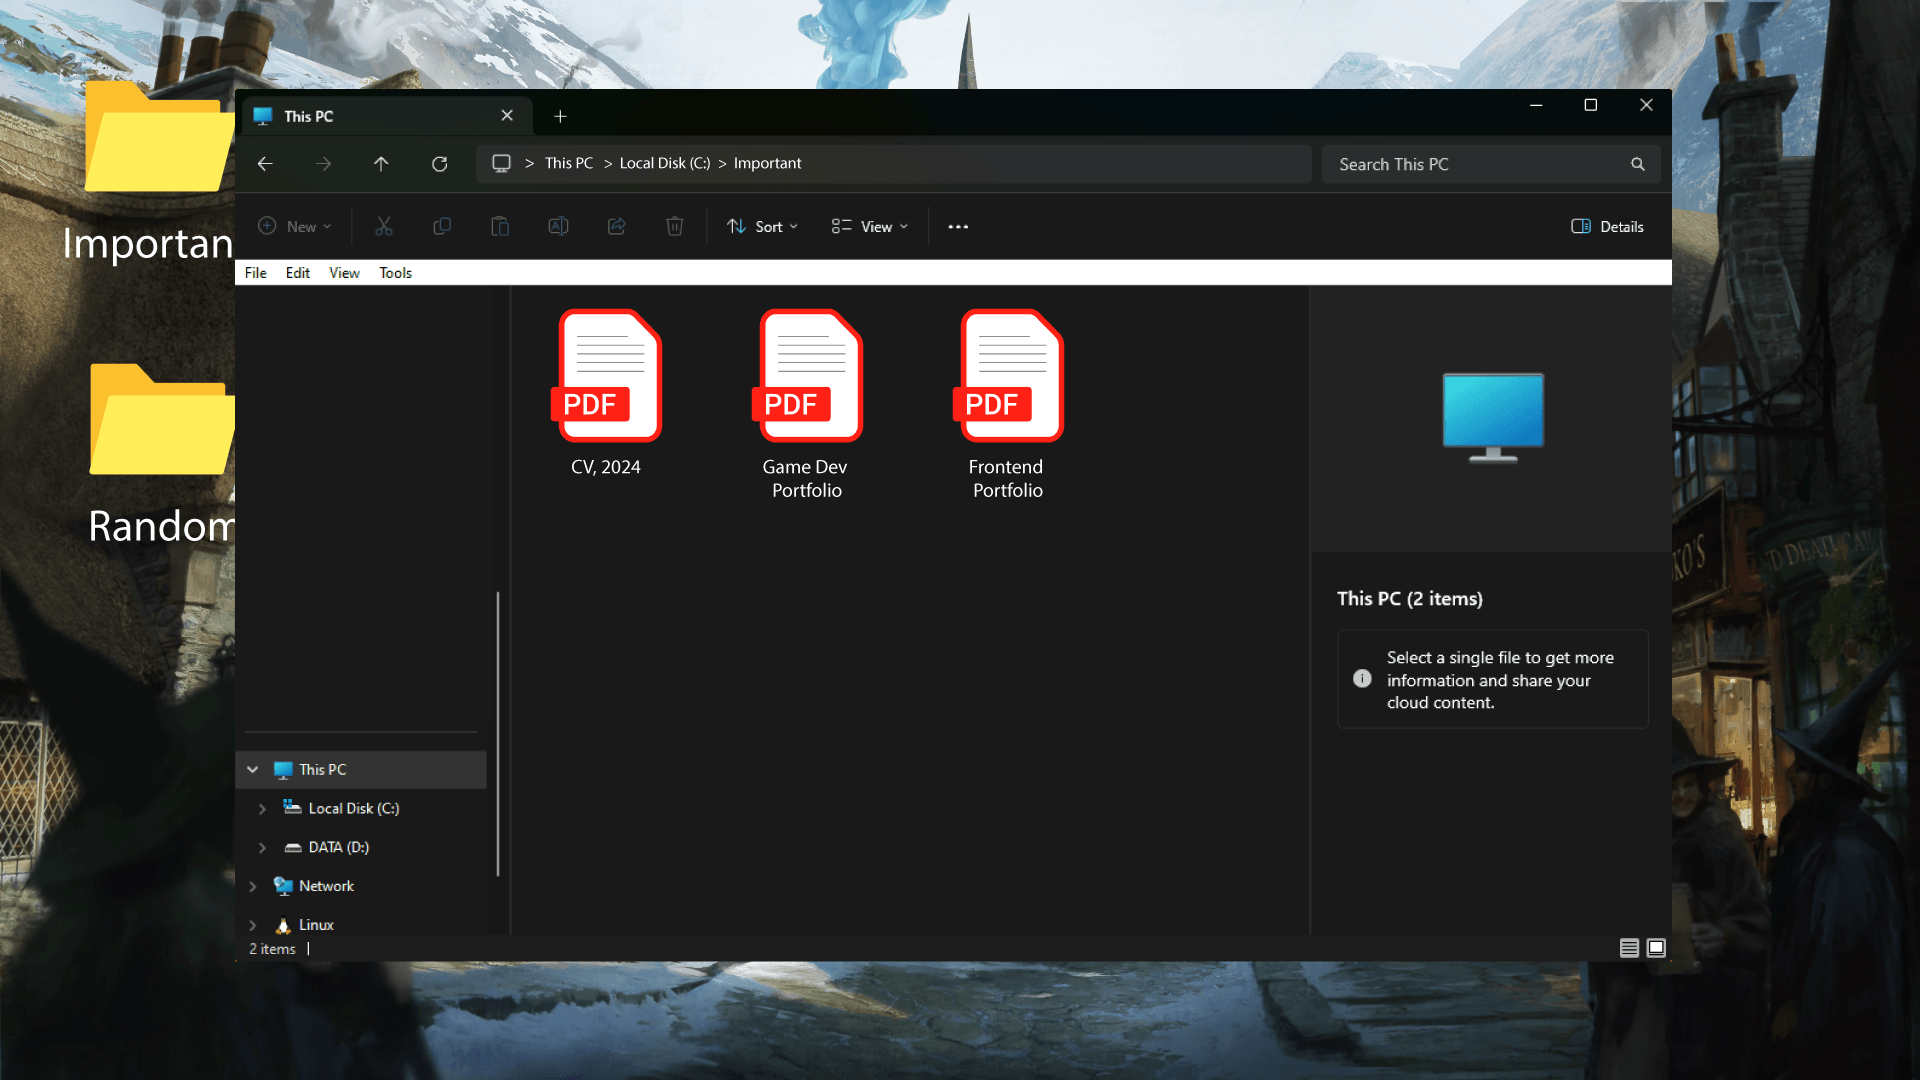
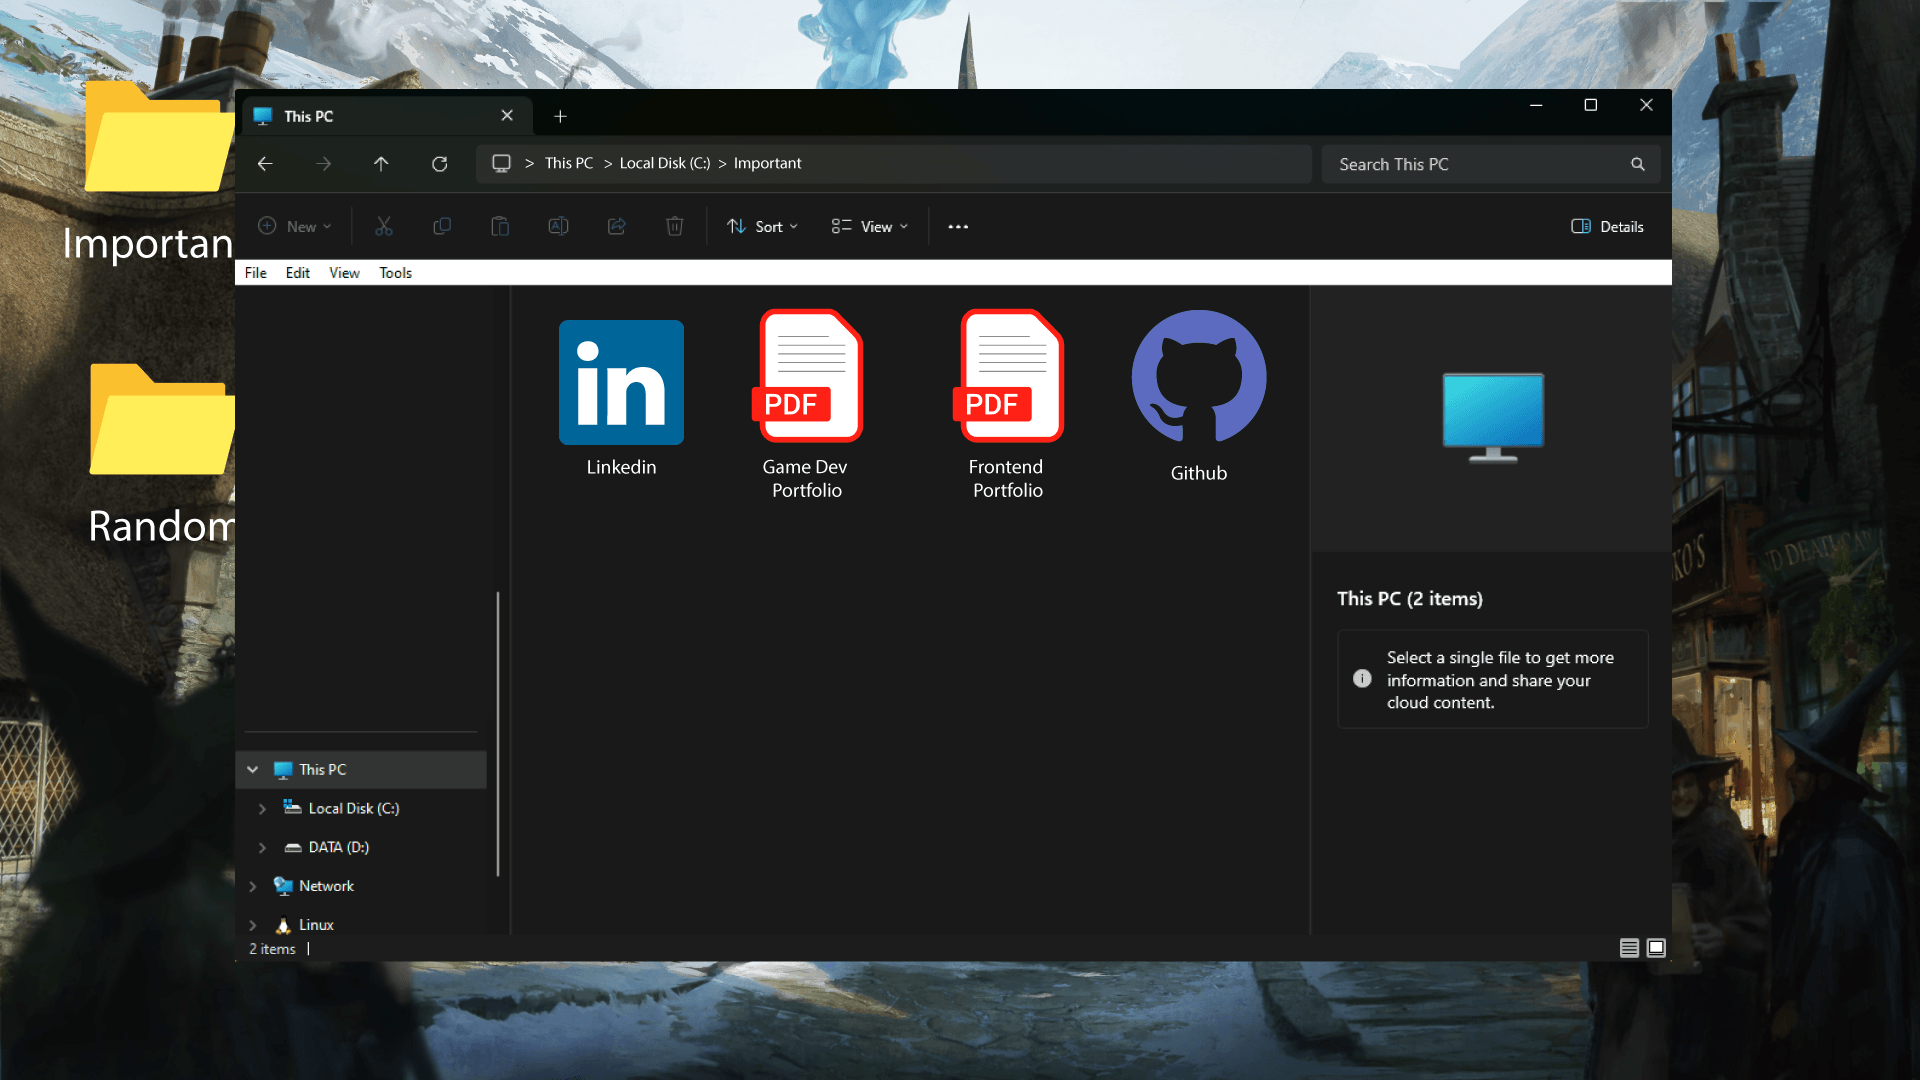
Add more PC interactions

Changed region(s): [[0.2812, 0.275, 0.375, 0.4583], [0.5625, 0.275, 0.6875, 0.4278]]

diff --git a/src/Components/Model.jsx b/src/Components/Model.jsx
@@ -40,9 +40,13 @@ const Model = forwardRef(({ onLoad, isTransitioning, completeEvent, isWalkthroug
     }, [images]);
 
 
-    const handleCVClick = () => {
-        completeEvent('clickCV', 17);
-        window.open('/PC Documents/Riwa Hoteit, CV.pdf', '_blank');
+    const handleLinkedinClick = () => {
+        completeEvent('clickLinkedin', 17);
+        window.open('https://www.linkedin.com/in/riwa-hoteit-7236b6204/', '_blank');
+    };
+
+    const handleGithubClick = () => {
+        window.open('https://github.com/riwaht', '_blank');
     };
 
     const handleFrontendClick = () => {
@@ -88,9 +92,10 @@ const Model = forwardRef(({ onLoad, isTransitioning, completeEvent, isWalkthroug
     const folderBoxes = [
         { show: showFolderBoxes, position: [17, 14.7, -4], color: "red", onClick: () => handleImageClick('important') },
         { show: showFolderBoxes, position: [17, 14, -4], color: "blue", onClick: () => handleImageClick('random') },
-        { show: showImportantBoxes, position: [15.7, 14.15, -4], color: "red", onClick: handleCVClick },
-        { show: showImportantBoxes, position: [15, 14.15, -4], color: "red", onClick: handleFrontendClick },
-        { show: showImportantBoxes, position: [14.3, 14.15, -4], color: "red", onClick: handleGameDevClick },
+        { show: showImportantBoxes, position: [15.7, 14.15, -4], color: "red", onClick: handleLinkedinClick },
+        { show: showImportantBoxes, position: [15, 14.15, -4], color: "red", onClick: handleGameDevClick },
+        { show: showImportantBoxes, position: [14.3, 14.15, -4], color: "red", onClick: handleFrontendClick },
+        { show: showImportantBoxes, position: [13.5, 14.15, -4], color: "red", onClick: handleGithubClick },
         { show: showImportantBoxes, position: [12.5, 14.9, -5], color: "blue", onClick: () => handleImageClick('exit'), size: [0.2, 0.2, 0.2] },
         { show: showRandomBoxes, position: [12.5, 14.9, -5], color: "blue", onClick: () => handleImageClick('exit'), size: [0.2, 0.2, 0.2] },
         { show: showRandomBoxes, position: [15.7, 14.15, -4], color: "red", onClick: handleBlenderClick },
